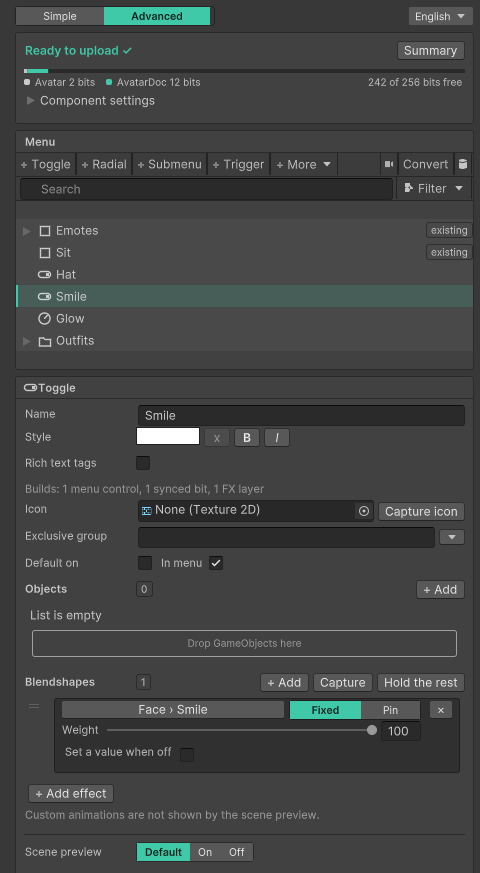
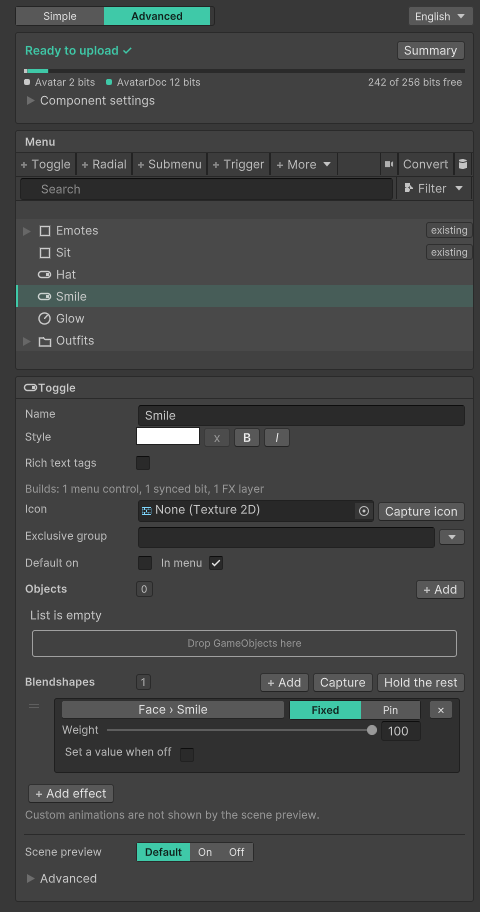
docs(site): recapture every screenshot and show the whole inspector in the Home picture

diff --git a/Tests/Editor/DocsShots/Pages/DocsShots_Home.cs b/Tests/Editor/DocsShots/Pages/DocsShots_Home.cs
@@ -39,6 +39,7 @@ namespace DocMe.AvatarDoctor.Editor
                 Page = "home",
                 Name = "hero",
                 View = DocsShot.Inspector(menu),
+                Height = 1200f,
                 Arrange = root => root.Q<AvatarDoctorView>().Tree.SelectEntry(smile.id),
             };
         }
